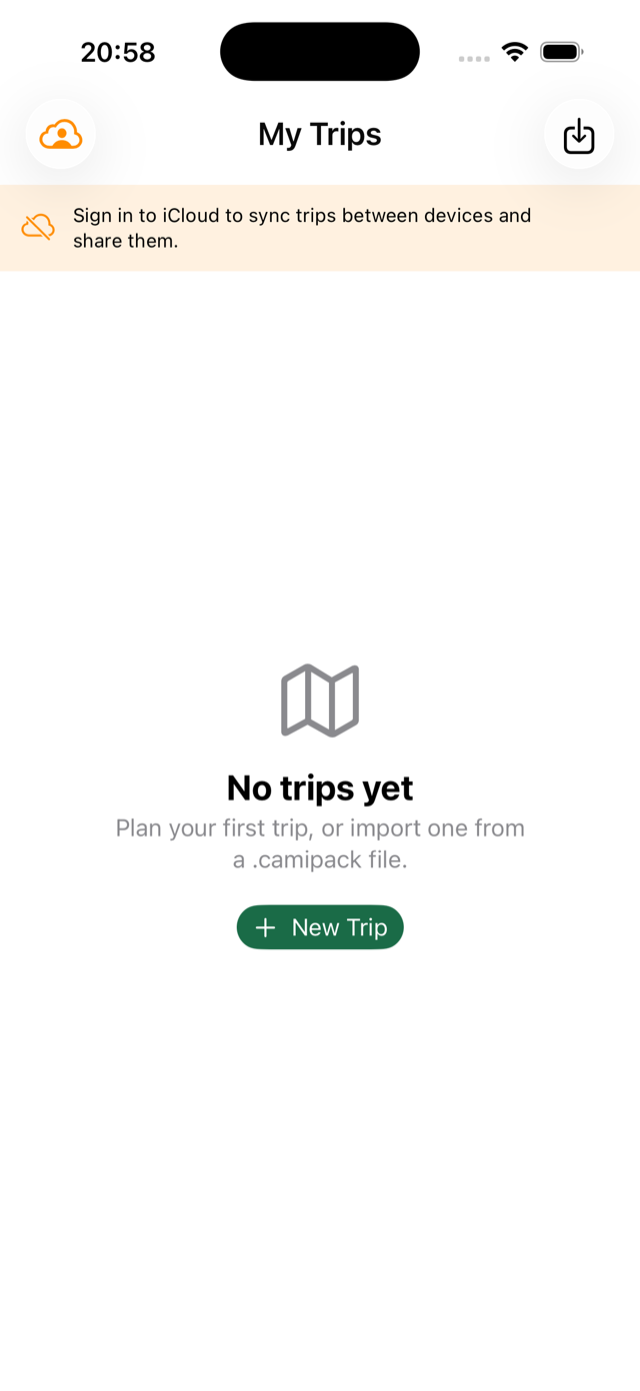
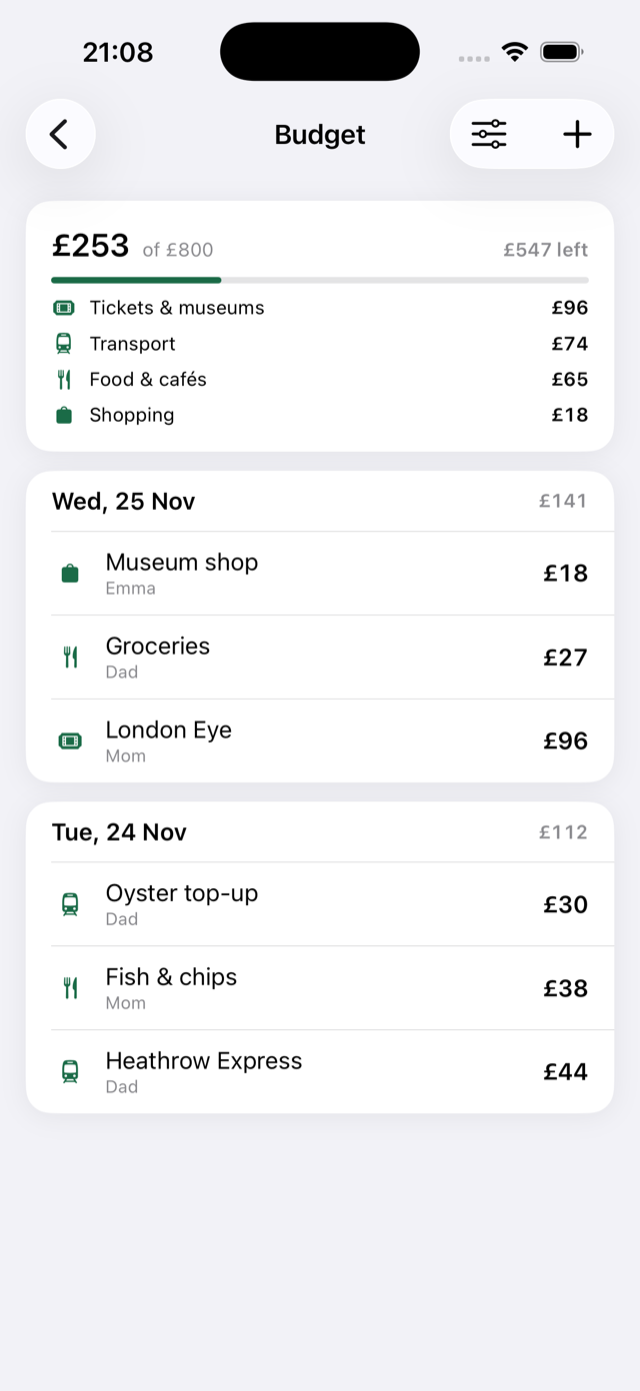
How-it-works guide page; fresh feature screenshots
Claude-Session: https://claude.ai/code/session_015vT5vjbPcZEB26a6zdYLz5

diff --git a/docs/how-it-works.html b/docs/how-it-works.html
@@ -1,0 +1,180 @@
+<!DOCTYPE html>
+<html lang="en">
+<head>
+<meta charset="utf-8">
+<meta name="viewport" content="width=device-width, initial-scale=1">
+<title>How it works — Camipack</title>
+<meta name="description" content="Every Camipack feature, step by step: planning days on a map, offline maps, family sharing, packing lists, budget, documents, and calendar export.">
+<link rel="icon" href="img/app-icon.png">
+<link rel="stylesheet" href="style.css">
+<style>
+  .feature { display: grid; grid-template-columns: 300px 1fr; gap: 32px; align-items: start; margin: 44px 0; }
+  .feature:nth-child(even) { grid-template-columns: 1fr 300px; }
+  .feature:nth-child(even) .phone { order: 2; }
+  @media (max-width: 720px) {
+    .feature, .feature:nth-child(even) { grid-template-columns: 1fr; }
+    .feature:nth-child(even) .phone { order: 0; }
+    .feature .phone { justify-self: center; }
+  }
+  .feature h2 { margin-top: 0; }
+  .steps { list-style: none; margin: 14px 0 0; padding: 0; counter-reset: step; }
+  .steps li {
+    position: relative; padding: 0 0 12px 40px; counter-increment: step;
+    font-size: 15.5px;
+  }
+  .steps li::before {
+    content: counter(step);
+    position: absolute; left: 0; top: 1px;
+    width: 24px; height: 24px; border-radius: 50%;
+    background: var(--green-soft); color: var(--green);
+    font-size: 12px; font-weight: 800;
+    display: flex; align-items: center; justify-content: center;
+  }
+  .steps b { font-weight: 700; }
+  .feature .note { font-size: 13.5px; color: var(--ink-2); margin-top: 8px; }
+</style>
+</head>
+<body>
+<div class="wrap">
+  <header class="site">
+    <img src="img/app-icon.png" alt="Camipack icon">
+    <span class="name">Camipack</span>
+    <nav>
+      <a href="index.html">Home</a>
+      <a href="updates.html">What's new</a>
+      <a href="support.html">Support</a>
+      <a href="privacy-policy.html">Privacy</a>
+    </nav>
+  </header>
+
+  <p class="eyebrow">The guide</p>
+  <h1>How Camipack works</h1>
+  <p class="lede">Every feature, step by step — the same guides that live in the app's Help, with room to breathe. Tap targets are named exactly as you'll see them on screen.</p>
+
+  <section class="feature">
+    <div class="phone"><img src="img/shot-trip.png" alt="A trip led by its living map, with the day-by-day plan below"></div>
+    <div>
+      <h2>Plan a trip, day by day</h2>
+      <p>A trip is a set of days; each day is a timeline of places, meals, walks, and tickets. The map at the top is alive — it grows from a city to a whole region as your plan does.</p>
+      <ol class="steps">
+        <li>On the home screen, tap the green <b>+ New Trip</b> button.</li>
+        <li>Name the trip, type a destination and pick it from the suggestions, choose the dates, tap <b>Create</b>.</li>
+        <li>Open the trip and tap any day card to plan that day.</li>
+        <li>Tap the round green <b>+</b> and pick <b>Place</b>, <b>Restaurant</b>, <b>Route</b>, or <b>Ticket</b>.</li>
+        <li>Inside an activity, tap <b>“Find on the map”</b> — Camipack looks the place up by name and pins it. Numbered pins match the timeline order.</li>
+      </ol>
+    </div>
+  </section>
+
+  <section class="feature">
+    <div class="phone"><img src="img/shot-offline.png" alt="The offline map rendering London entirely from a file stored on the phone"></div>
+    <div>
+      <h2>Offline maps</h2>
+      <p>Download a trip's map once and it keeps working with no internet at all — streets, labels, your pins and walking routes. The map covers everything the trip pins down, with margin, and lives entirely on your phone. A city is roughly 10–40 MB.</p>
+      <ol class="steps">
+        <li>Open the trip and tap the <b>⋯</b> button, top right.</li>
+        <li>Tap <b>Offline Map…</b>, then <b>Download Offline Map</b> — best on Wi-Fi.</li>
+        <li>That's it. When you're offline, opening the trip map shows the offline map automatically. You can also open it any time from the same sheet.</li>
+        <li>Changed the plan? <b>Update Map</b> re-downloads around the new places. <b>Remove Download</b> frees the space.</li>
+      </ol>
+      <p class="note">Try it before the trip: download, switch on Airplane Mode, open the map.</p>
+    </div>
+  </section>
+
+  <section class="feature">
+    <div class="phone"><img src="img/shot-sync.png" alt="The sync sheet with iCloud status and shared trips"></div>
+    <div>
+      <h2>Plan together, sync everywhere</h2>
+      <p>Share a trip and the whole family edits the same plan — changes appear on everyone's phone within moments, with a badge showing who changed what. Sync runs through your own iCloud; Camipack has no servers.</p>
+      <ol class="steps">
+        <li>Open the trip → <b>⋯</b> → <b>Share Trip</b>, and send the invitation (Messages works best).</li>
+        <li>Your family member taps the link, then <b>Join Trip</b>.</li>
+        <li>The cloud pill on the home screen shows sync status — tap it for details or to pause syncing.</li>
+        <li>To end sharing: same menu → <b>Stop Sharing</b>.</li>
+      </ol>
+    </div>
+  </section>
+
+  <section class="feature">
+    <div class="phone"><img src="img/shot-packing.png" alt="Packing lists: shared plus one per family member, with progress"></div>
+    <div>
+      <h2>Packing, per person</h2>
+      <p>One shared list for the family plus a personal list for each member, color-coded. Counts roll up so the trip screen always answers "are we packed?" at a glance.</p>
+      <ol class="steps">
+        <li>Open a trip and tap <b>Packing</b> — the middle of the three buttons under the map.</li>
+        <li>The shared list opens first; tap a name to switch lists.</li>
+        <li>Tap <b>+</b> to add an item, tap an item to check it off.</li>
+      </ol>
+    </div>
+  </section>
+
+  <section class="feature">
+    <div class="phone"><img src="img/shot-budget.png" alt="Trip budget with expenses in multiple currencies"></div>
+    <div>
+      <h2>Budget in any currency</h2>
+      <p>Track costs as you plan and as you go. Each expense keeps its own currency — hotel in euros, museum in pounds — and the totals still add up in one place.</p>
+      <ol class="steps">
+        <li>Open a trip and tap <b>Budget</b> — the last of the three buttons under the map.</li>
+        <li>Tap <b>+</b> to add an expense with amount and category.</li>
+        <li>Pick the currency right in the add screen — every expense can use a different one.</li>
+      </ol>
+    </div>
+  </section>
+
+  <section class="feature">
+    <div class="phone"><img src="img/shot-tripmap.png" alt="The whole trip on one map, pins and routes tinted per day"></div>
+    <div>
+      <h2>The whole trip on one map</h2>
+      <p>Every located activity from every day, pins and route lines tinted per day so Tuesday never blurs into Wednesday. Filter to a single day with one tap.</p>
+      <ol class="steps">
+        <li>Open a trip and tap the big map at the top.</li>
+        <li>Tap a day chip to focus that day; tap again for all days.</li>
+        <li>Tap any pin to see which stop it is.</li>
+      </ol>
+    </div>
+  </section>
+
+  <section class="feature">
+    <div class="phone"><img src="img/shot-calendar.png" alt="Add to Calendar: the whole trip and every timed item, with alerts"></div>
+    <div>
+      <h2>Into the family calendar</h2>
+      <p>Put the trip where the family already looks: one all-day banner across the trip, and optionally every timed activity as its own event with an alert.</p>
+      <ol class="steps">
+        <li>Open the trip → <b>⋯</b> → <b>Add to Calendar</b>.</li>
+        <li>Choose what to add and pick the alerts.</li>
+        <li>Pick the calendar and confirm. Re-adding later updates events instead of duplicating them.</li>
+      </ol>
+    </div>
+  </section>
+
+  <section class="feature">
+    <div class="phone"><img src="img/shot-home.png" alt="Home: trips on a year timeline with countdowns"></div>
+    <div>
+      <h2>A year of trips at a glance</h2>
+      <p>Home is a timeline, not a table: your trips in order, with photo cards, countdowns ("IN 3 MONTHS"), and the free gaps between trips — which is exactly where the next plan starts.</p>
+      <ol class="steps">
+        <li>Scroll the year; tap any trip card to open it.</li>
+        <li>Tap <b>+ New Trip</b> to fill a gap.</li>
+        <li>Add the widget to your Home Screen: long-press → <b>Edit</b> → <b>Add Widget</b> → search "Camipack". One tap opens the trip it shows.</li>
+      </ol>
+    </div>
+  </section>
+
+  <section class="feature">
+    <div class="phone"><img src="img/shot-help.png" alt="The in-app Help with numbered, tap-by-tap steps"></div>
+    <div>
+      <h2>Help is built in</h2>
+      <p>Everything on this page also lives in the app — tap the cloud pill on the home screen, then <b>Help</b>. Each topic is a numbered guide showing exactly which button to press, so nobody in the family has to ask how anything works.</p>
+    </div>
+  </section>
+
+  <footer class="site">
+    <span>© 2026 Camipack</span>
+    <a href="index.html">Home</a>
+    <a href="updates.html">Release notes</a>
+    <a href="support.html">Support</a>
+    <a href="privacy-policy.html">Privacy policy</a>
+  </footer>
+</div>
+</body>
+</html>

diff --git a/docs/updates.html b/docs/updates.html
@@ -12,7 +12,7 @@
   <header class="site">
     <img src="img/app-icon.png" alt="Camipack icon">
     <span class="name">Camipack</span>
-    <nav><a href="index.html">Home</a><a href="support.html">Support</a><a href="privacy-policy.html">Privacy</a></nav>
+    <nav><a href="how-it-works.html">How it works</a><a href="index.html">Home</a><a href="support.html">Support</a><a href="privacy-policy.html">Privacy</a></nav>
   </header>
 
   <p class="eyebrow">Release notes</p>

diff --git a/docs/privacy-policy.html b/docs/privacy-policy.html
@@ -12,7 +12,7 @@
   <header class="site">
     <img src="img/app-icon.png" alt="Camipack icon">
     <span class="name">Camipack</span>
-    <nav><a href="index.html">Home</a><a href="support.html">Support</a></nav>
+    <nav><a href="how-it-works.html">How it works</a><a href="index.html">Home</a><a href="support.html">Support</a></nav>
   </header>
 
   <p class="eyebrow">Effective 11 August 2026</p>

diff --git a/docs/support.html b/docs/support.html
@@ -12,7 +12,7 @@
   <header class="site">
     <img src="img/app-icon.png" alt="Camipack icon">
     <span class="name">Camipack</span>
-    <nav><a href="index.html">Home</a><a href="privacy-policy.html">Privacy</a></nav>
+    <nav><a href="how-it-works.html">How it works</a><a href="index.html">Home</a><a href="privacy-policy.html">Privacy</a></nav>
   </header>
 
   <p class="eyebrow">Support</p>

diff --git a/docs/index.html b/docs/index.html
@@ -17,7 +17,7 @@
   <header class="site">
     <img src="img/app-icon.png" alt="Camipack icon">
     <span class="name">Camipack</span>
-    <nav>
+    <nav><a href="how-it-works.html">How it works</a>
       <a href="updates.html">What's new</a>
       <a href="support.html">Support</a>
       <a href="privacy-policy.html">Privacy</a>
